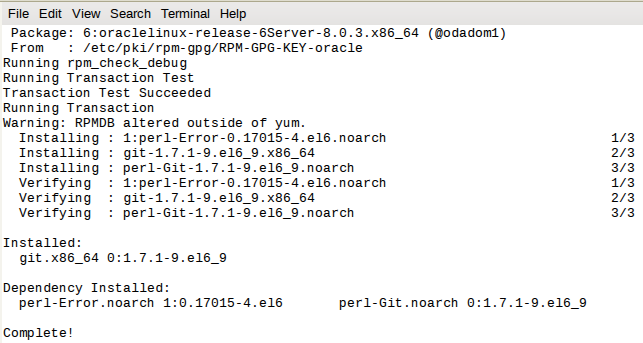
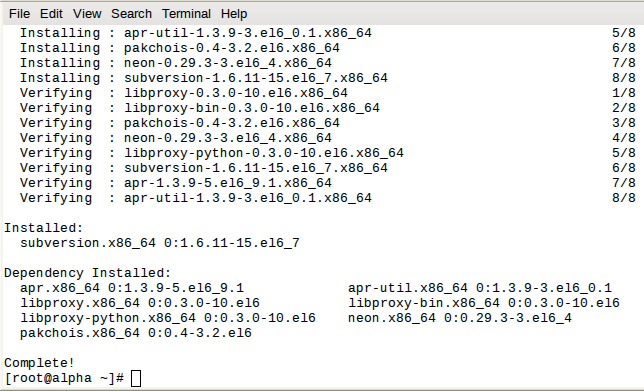
updates

Changed region(s): [[0.0, 0.0, 1.0, 0.6414], [0.0, 0.6706, 1.0, 1.0], [0.5288, 0.6997, 0.9642, 0.9038]]

diff --git a/workshops/dbcs-dba/Setup.md b/workshops/dbcs-dba/Setup.md
@@ -187,59 +187,89 @@ The following creates a new DBCS Enterprise instance with backup to cloud.  Use 
 	![](images/setup/043.png)
 
 -	Install the yum repository and then adobe and git packages.  Enter the following:
-
 ```
 sudo su -
 cp /tmp/public-yum-ol6.repo /etc/yum.repos.d
 rpm -ivh /tmp/adobe-release-x86_64-1.0-1.noarch.rpm
-yum -y install git
+yum -y install svn
 exit
 ```
-
 ![](images/setup/044.png)
 
--	Log in as Oracle and clone the 
+-	Log in as Oracle and clone the DBCS Workshop git.
+```
 sudo su - oracle
-git clone https://github.com/pcdavies/DatabaseCloudServiceForDBAsOCI.git
-mv /home/oracle/DatabaseCloudServiceForDBAsOCI/workshops/dbcs-dba/install/install_oci.zip .
-unzip install.zip
-/home/oracle/install.sh
-exit
-sudo su -
-/home/oracle/yum.sh
+svn export https://github.com/pcdavies/DatabaseCloudServiceForDBAsOCI/trunk/workshops/dbcs-dba/install/install_oci.zip
+unzip install_oci.zip
+/home/oracle/install_oci.sh
 exit
 ```
-![](images/setup/131.png)
+![](images/setup/045.png)
 
--	Start VNC Server.  You can optionally adjust the geometry to match your screen (eg: `vncserver -geometry 1280x720`).  You will be prompted to enter a password.  Do not use the password that we have been specifying in other places in this lab document.  **VNC is open to the internet.  Select your own secure password**.  Be sure you are sudo su to oracle user.
-	- `sudo su - oracle`
+-	Log back in as root and install the desktop packages.  Enter the following.
+```
+sudo su -
+/home/oracle/yum.sh
+```
+![](images/setup/046.png)
+
+-	While we are logged in as root we also need to open the VNC server port that we'll be starting in the next step.  Enter the following.
+	- `sed -i 's/IPTABLES_SAVE_ON_RESTART="no"/IPTABLES_SAVE_ON_RESTART="yes"/g' /etc/sysconfig/iptables-config`
+	- `iptables -I INPUT -p tcp -m tcp --dport 5901 -j ACCEPT`
+	- `service iptables restart`
+
+	![](images/setup/046.png)
+
+-	Start VNC Server.  You can optionally adjust the geometry to match your screen (eg: `vncserver -geometry 1280x720`).  You will be prompted to enter a password.  Do not use the password that we have been specifying in other places in this lab document.  **VNC is open to the internet.  Select your own secure password.  We suggest you use your cloud password.**.  Be sure you are sudo su to oracle user.
+	- `exit` - this is exist out of the root user
+	`sudo su - oracle`
 	- `vncserver`
 
-	![](images/setup/141.png)
+	![](images/setup/047.png)
 
-### **STEP 5**: Open Port 5901 (VNC) and log into the desktop
+### **STEP 8**: Open Port 5901 (VNC) and log into the desktop
 
 -	Log back into the Cloud Console and select Database Service.
 
-	![](images/setup/136.png)
+	![](images/setup/048.png)
 
-	![](images/setup/137.png)
+	![](images/setup/049.png)
 
--	Select Access Rules on the right.
+-	Select Networking - Virtual Cloud Networks.
 
-	![](images/setup/138.png)
+	![](images/setup/050.png)
 
-	![](images/setup/139.png)
+-	Select the Virtual Cloud Network you created earlier.
 
--	Create rule.  Note you need to refresh your screen to see the new rule after selecting create.
+	![](images/setup/051.png)
 
-	![](images/setup/140.png)
+-	Select Security Lists.
 
-	![](images/setup/141.png)
+	![](images/setup/052.png)
 
--	Start your VNC Viewer and log in.
+-	Select Default Security List.
 
-	![](images/setup/142.png)
+	![](images/setup/053.png)
+
+-	Select Edit All Rules.
+
+	![](images/setup/054.png)
+
+-	Add Ingress Rule opening port 5901.
+
+	![](images/setup/055.png)
+
+-	Enter the following details. 
+
+	![](images/setup/056.png)
+
+-	Scroll down and save the rules.  Note the rule will take about a minute to become active.
+
+	![](images/setup/057.png)
+
+-	Start your VNC **Viewer Client** and log in with the password you entered above.  Use your own WorkshopImage IP address (not the one in the screenshot below).
+
+	![](images/setup/059.png)
 
 -	This is the WorkshopImage desktop.  The background may be different across the screen shots.
 
@@ -247,40 +277,40 @@ exit
 
 -	We need to disable the screen saver to prevent a screen unlock prompt.  Go to the system menu on the desktop and de-activate screen saver.  If you delay in this step and the screen locks up you will need to kill the vncserver (`vncserver -kill :1`) and restart it (`vncserver`) in your terminal window.
 
-	![](images/setup/144.png)
+	![](images/setup/060.png)
 
-	![](images/setup/145.png)
+	![](images/setup/061.png)
 
 ### **STEP 6**: Set up shortcut to SQLDeveloper and import connections
 
 -	Right click on the desktop and create a new launcher on the desktop.  Enter the Name and Command:
 	- **Name:** `SqlDeveloper`
-	- **Command:** `/u01/app/oracle/product/12.2.0/dbhome_1/sqldeveloper/sqldeveloper/bin/sqldeveloper`
+	- **Command:** `/u01/app/oracle/product/12.2.0.1/dbhome_1/sqldeveloper/sqldeveloper/bin/sqldeveloper`
 
-	![](images/setup/146.png)
+	![](images/setup/062.png)
 
-	![](images/setup/147.png)
+	![](images/setup/063.png)
 
--	Select the sqldeveloper icon from the following directory: `/u01/app/oracle/product/12.2.0/dbhome_1/sqldeveloper/`
+-	Select the sqldeveloper icon from the following directory: `/u01/app/oracle/product/12.2.0.1/dbhome_1/sqldeveloper/`
 
-	![](images/setup/148.png)
+	![](images/setup/064.png)
 
-	![](images/setup/149.png)
+	![](images/setup/065.png)
 
 -	Double click on the desktop icon to start sqldeveloper. Select no to import connections.
 
-	![](images/setup/150.png)
+	![](images/setup/066.png)
 
 -	Right click on connections and select import connections.
 
-	![](images/setup/151.png)
+	![](images/setup/067.png)
 
 -	Browse for connections file.
 
-	![](images/setup/152.png)
+	![](images/setup/068.png)
 
-	![](images/setup/153.png)
+	![](images/setup/069.png)
 
-	![](images/setup/154.png)
+	![](images/setup/070.png)
 
-	![](images/setup/155.png)
+	![](images/setup/071.png)
